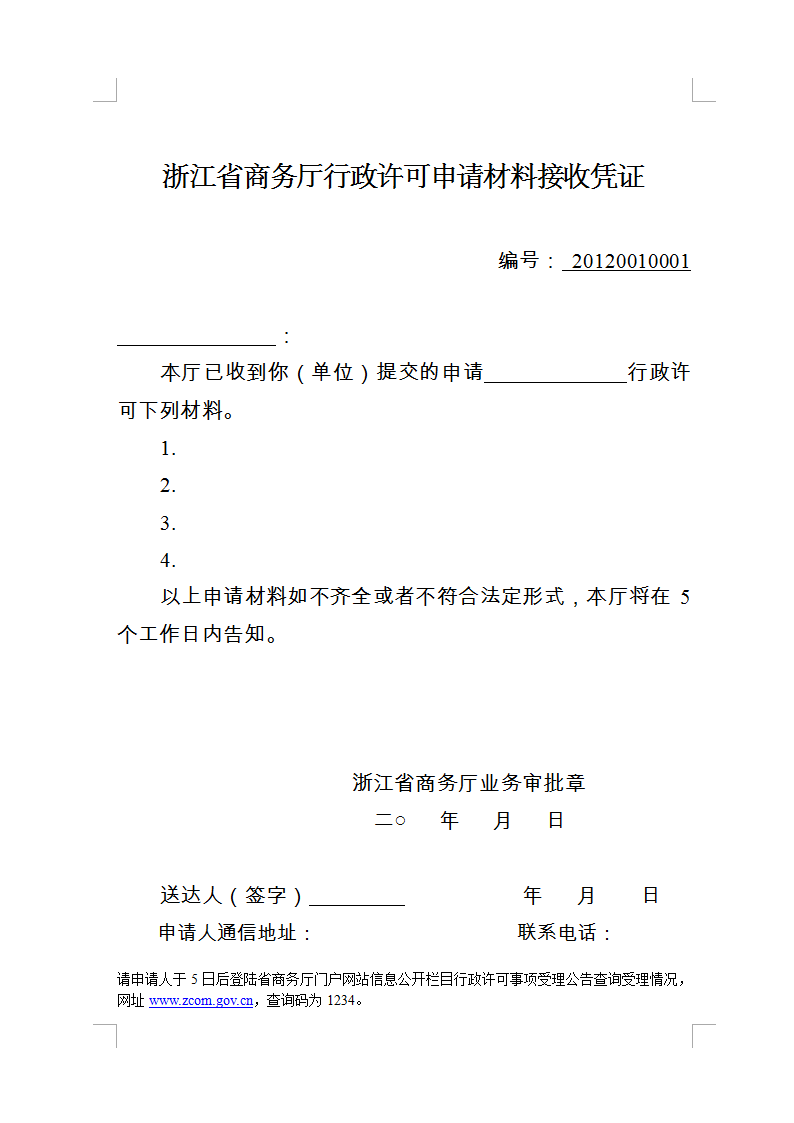
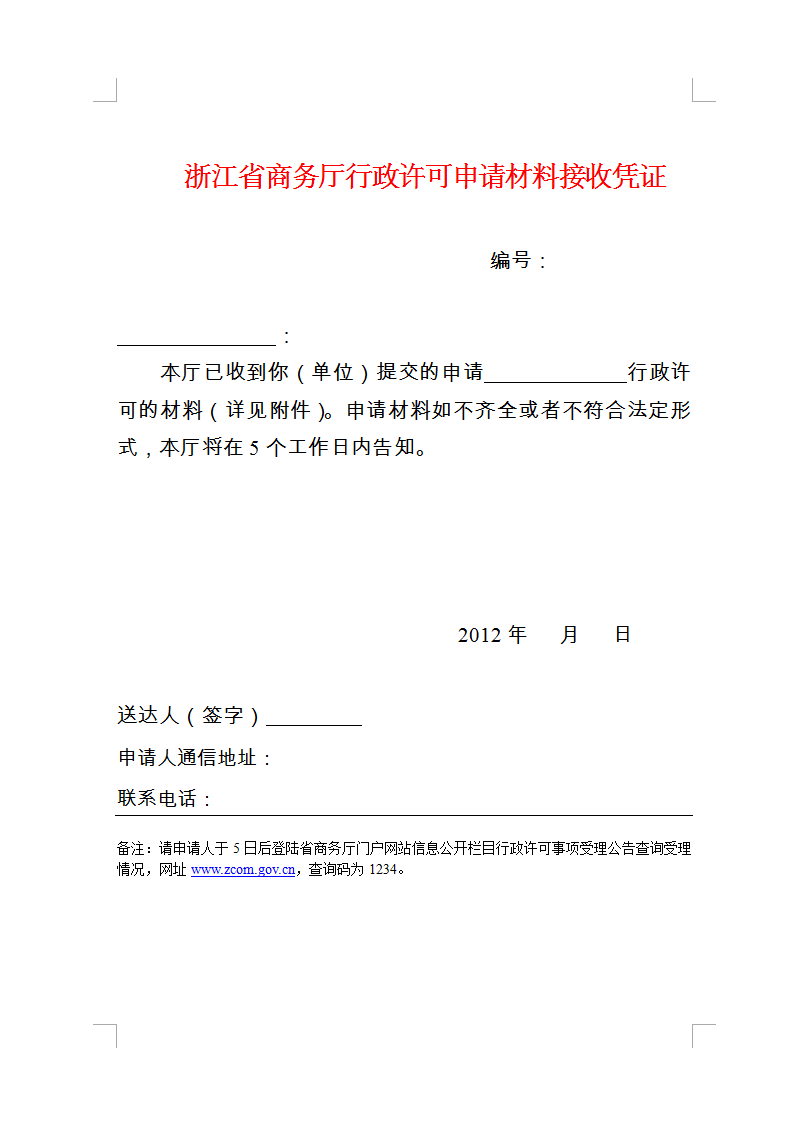
update

diff --git a/print_small.html b/print_small.html
@@ -32,76 +32,125 @@
         <tr>
             <td width="30">1</td>
             <td>
-                <a style="float: left;" href="javascript:Design1()">浙江省商务厅行政许可申请不予受理通知书(套打)</a>&nbsp;&nbsp;&nbsp;&nbsp;<a target="_blank" href="print_small_a.html">材料清单</a>
+                <a style="float: left;" href="javascript:Design1()">浙江省商务厅行政许可申请材料接收凭证(套打)</a>&nbsp;&nbsp;&nbsp;&nbsp;<a target="_blank" href="print_small_a.html">材料清单</a>
             </td>
         </tr>
         <tr>
             <td>2</td>
             <td>
-                <a style="float: left;" href="print_b.html">浙江省商务厅行政许可申请不予受理通知书</a>&nbsp;&nbsp;&nbsp;&nbsp;<a target="_blank" href="print_small_a.html">材料清单</a>
+                <a style="float: left;" href="javascript:Design2()">浙江省商务厅行政许可申请受理通知书</a>&nbsp;&nbsp;&nbsp;&nbsp;<a target="_blank" href="print_small_a.html">材料清单</a>
             </td>
         </tr>
         <tr>
             <td>3</td>
             <td>
-                <a style="float: left;" href="print_a.html">浙江省商务厅行政许可申请不予受理通知书</a>&nbsp;&nbsp;&nbsp;&nbsp;<a target="_blank" href="print_small_a.html">材料清单</a>
+                <a style="float: left;" href="javascript:Design3()">浙江省商务厅行政许可决定书</a>&nbsp;&nbsp;&nbsp;&nbsp;<a target="_blank" href="print_small_a.html">材料清单</a>
             </td>
         </tr>
         <tr>
             <td>4</td>
             <td>
-                <a style="float: left;" href="print_b.html">浙江省商务厅行政许可申请不予受理通知书</a>&nbsp;&nbsp;&nbsp;&nbsp;<a target="_blank" href="print_small_a.html">材料清单</a>
+                <a style="float: left;" href="javascript:Design4()">浙江省商务厅行政许可申请不予受理通知书</a>&nbsp;&nbsp;&nbsp;&nbsp;<a target="_blank" href="print_small_a.html">材料清单</a>
             </td>
         </tr>
         <tr>
             <td>5</td>
             <td>
-                <a style="float: left;" href="print_a.html">浙江省商务厅行政许可申请不予受理通知书</a>&nbsp;&nbsp;&nbsp;&nbsp;<a target="_blank" href="print_small_a.html">材料清单</a>
+                <a style="float: left;" href="javascript:Design5()">浙江省商务厅行政许可申请不予受理通知书</a>&nbsp;&nbsp;&nbsp;&nbsp;<a target="_blank" href="print_small_a.html">材料清单</a>
             </td>
         </tr>
         <tr>
             <td>6</td>
             <td>
-                <a style="float: left;" href="print_b.html">浙江省商务厅行政许可申请不予受理通知书</a>&nbsp;&nbsp;&nbsp;&nbsp;<a target="_blank" href="print_small_a.html">材料清单</a>
+                <a style="float: left;" href="javascript:Design6()">浙江省商务厅行政许可申请不予受理通知书</a>&nbsp;&nbsp;&nbsp;&nbsp;<a target="_blank" href="print_small_a.html">材料清单</a>
             </td>
         </tr>
     </table>
 </div>
 <script type="text/javascript">
     var LODOP; //声明为全局变量
-    var bm = "20120010001";
-    var cl = "1、材料一\n2、材料二\n3、材料三\n4、材料四\n5、材料五";
+    //浙江省商务厅行政许可申请材料接收凭证
     function Design1() {
         CreateFullBill();
         LODOP.PRINT_DESIGN();
     }
     function CreateFullBill() {
+        var bm = "20120010001";
         LODOP = getLodop(document.getElementById('LODOP_OB'), document.getElementById('LODOP_EM'));
-        LODOP.PRINT_INITA(-1,-25,794,1123,"打印控件功能演示_Lodop功能_装载背景图");
+        LODOP.PRINT_INITA(-1, -25, 794, 1123, "浙江省商务厅行政许可申请材料接收凭证");
         LODOP.ADD_PRINT_SETUP_BKIMG("<img border='0' src='img/test.png'>");
-        LODOP.ADD_PRINT_TEXT(316,114,167,31,"寄件人姓名");
-        LODOP.SET_PRINT_STYLEA(0,"FontSize",14);
-        LODOP.SET_PRINT_STYLEA(0,"Alignment",2);
-        LODOP.ADD_PRINT_TEXT(246,562,141,31,bm);
-        LODOP.SET_PRINT_STYLEA(0,"FontSize",16);
-        LODOP.SET_PRINT_STYLEA(0,"Alignment",2);
-        LODOP.ADD_PRINT_TEXT(355,485,143,31,"新加文本12");
-        LODOP.SET_PRINT_STYLEA(0,"FontSize",14);
-        LODOP.SET_PRINT_STYLEA(0,"Alignment",2);
-        LODOP.ADD_PRINT_TEXT(431,147,540,149,cl);
-        LODOP.SET_PRINT_STYLEA(0,"FontSize",15);
-        LODOP.ADD_PRINT_TEXT(806,372,196,31,"2012年3月21日");
-        LODOP.SET_PRINT_STYLEA(0,"FontSize",14);
-        LODOP.SET_PRINT_STYLEA(0,"Alignment",2);
-        LODOP.ADD_PRINT_TEXT(879,310,158,31,"新加文本15");
-        LODOP.SET_PRINT_STYLEA(0,"FontSize",14);
-        LODOP.ADD_PRINT_TEXT(876,518,196,31,"2012年3月21日");
-        LODOP.SET_PRINT_STYLEA(0,"FontSize",14);
-        LODOP.SET_PRINT_STYLEA(0,"Alignment",2);
-        LODOP.ADD_PRINT_TEXT(917,310,201,31,"新加文本17");
-        LODOP.SET_PRINT_STYLEA(0,"FontSize",14);
-        LODOP.ADD_PRINT_TEXT(916,612,154,31,"12345678910");
-        LODOP.SET_PRINT_STYLEA(0,"FontSize",14);
+        LODOP.ADD_PRINT_TEXT(322, 114, 167, 31, "寄件人姓名");
+        LODOP.SET_PRINT_STYLEA(0, "FontSize", 14);
+        LODOP.SET_PRINT_STYLEA(0, "Alignment", 2);
+        LODOP.ADD_PRINT_TEXT(246, 562, 141, 31, bm);
+        LODOP.SET_PRINT_STYLEA(0, "FontSize", 16);
+        LODOP.SET_PRINT_STYLEA(0, "Alignment", 2);
+        LODOP.ADD_PRINT_TEXT(355, 485, 143, 31, "新加文本12");
+        LODOP.SET_PRINT_STYLEA(0, "FontSize", 14);
+        LODOP.SET_PRINT_STYLEA(0, "Alignment", 2);
+        LODOP.ADD_PRINT_TEXT(619, 451, 196, 31, "2012年3月21日");
+        LODOP.SET_PRINT_STYLEA(0, "FontSize", 14);
+        LODOP.SET_PRINT_STYLEA(0, "Alignment", 2);
+        LODOP.ADD_PRINT_TEXT(699, 263, 158, 31, "新加文本15");
+        LODOP.SET_PRINT_STYLEA(0, "FontSize", 14);
+        LODOP.ADD_PRINT_TEXT(742, 270, 201, 31, "新加文本17");
+        LODOP.SET_PRINT_STYLEA(0, "FontSize", 14);
+        LODOP.ADD_PRINT_TEXT(784, 216, 154, 31, "12345678910");
+        LODOP.SET_PRINT_STYLEA(0, "FontSize", 14);
+    }
+    //浙江省商务厅行政许可申请受理通知书
+    function Design2() {
+        sqsl();
+        LODOP.PRINT_DESIGN();
+    }
+    function sqsl() {
+        LODOP = getLodop(document.getElementById('LODOP_OB'), document.getElementById('LODOP_EM'));
+        LODOP.PRINT_INITA(-1, -25, 794, 1123, "浙江省商务厅行政许可申请受理通知书");
+        LODOP.ADD_PRINT_SETUP_BKIMG("<img border='0' src='img/sqsl.png'>");
+        LODOP.ADD_PRINT_TEXT(370, 114, 167, 31, "寄件人姓名");
+        LODOP.SET_PRINT_STYLEA(0, "FontSize", 14);
+        LODOP.SET_PRINT_STYLEA(0, "Alignment", 2);
+        LODOP.ADD_PRINT_TEXT(292, 562, 141, 31, "20120010001");
+        LODOP.SET_PRINT_STYLEA(0, "FontSize", 16);
+        LODOP.SET_PRINT_STYLEA(0, "Alignment", 2);
+        LODOP.ADD_PRINT_TEXT(411, 375, 300, 31, "新加文本12");
+        LODOP.SET_PRINT_STYLEA(0, "FontSize", 14);
+        LODOP.SET_PRINT_STYLEA(0, "Alignment", 2);
+        LODOP.ADD_PRINT_TEXT(491, 615, 56, 31, "2");
+        LODOP.SET_PRINT_STYLEA(0, "FontSize", 14);
+        LODOP.SET_PRINT_STYLEA(0, "Alignment", 2);
+        LODOP.ADD_PRINT_TEXT(769, 352, 201, 31, "新加文本17");
+        LODOP.SET_PRINT_STYLEA(0, "FontSize", 14);
+        LODOP.SET_PRINT_STYLEA(0, "Alignment", 2);
+    }
+    //浙江省商务厅行政许可决定书
+    function Design3() {
+        xkjds();
+        LODOP.PRINT_DESIGN();
+    }
+    function xkjds() {
+        LODOP = getLodop(document.getElementById('LODOP_OB'), document.getElementById('LODOP_EM'));
+        LODOP.PRINT_INITA(-1, -25, 794, 1123, "浙江省商务厅行政许可决定书");
+        LODOP.ADD_PRINT_SETUP_BKIMG("<img border='0' src='img/xkjds.png'>");
+        LODOP.ADD_PRINT_TEXT(368, 114, 167, 31, "寄件人姓名");
+        LODOP.SET_PRINT_STYLEA(0, "FontSize", 14);
+        LODOP.SET_PRINT_STYLEA(0, "Alignment", 2);
+        LODOP.ADD_PRINT_TEXT(293, 562, 141, 31, "20120010001");
+        LODOP.SET_PRINT_STYLEA(0, "FontSize", 16);
+        LODOP.SET_PRINT_STYLEA(0, "Alignment", 2);
+        LODOP.ADD_PRINT_TEXT(408, 290, 110, 31, "新加文本12");
+        LODOP.SET_PRINT_STYLEA(0, "FontSize", 14);
+        LODOP.SET_PRINT_STYLEA(0, "Alignment", 2);
+        LODOP.ADD_PRINT_TEXT(408, 430, 46, 31, "12");
+        LODOP.SET_PRINT_STYLEA(0, "FontSize", 14);
+        LODOP.SET_PRINT_STYLEA(0, "Alignment", 2);
+        LODOP.ADD_PRINT_TEXT(408, 497, 46, 31, "30");
+        LODOP.SET_PRINT_STYLEA(0, "FontSize", 14);
+        LODOP.ADD_PRINT_TEXT(525, 162, 557, 129, "1、新加文本17\n2、新加文本17\n3、新加文本17\n...(省略)");
+        LODOP.SET_PRINT_STYLEA(0, "FontSize", 14);
+        LODOP.ADD_PRINT_TEXT(850, 416, 190, 31, "2012年12月12日");
+        LODOP.SET_PRINT_STYLEA(0, "FontSize", 14);
+        LODOP.SET_PRINT_STYLEA(0, "Alignment", 2);
     }
 </script>
 </body>
